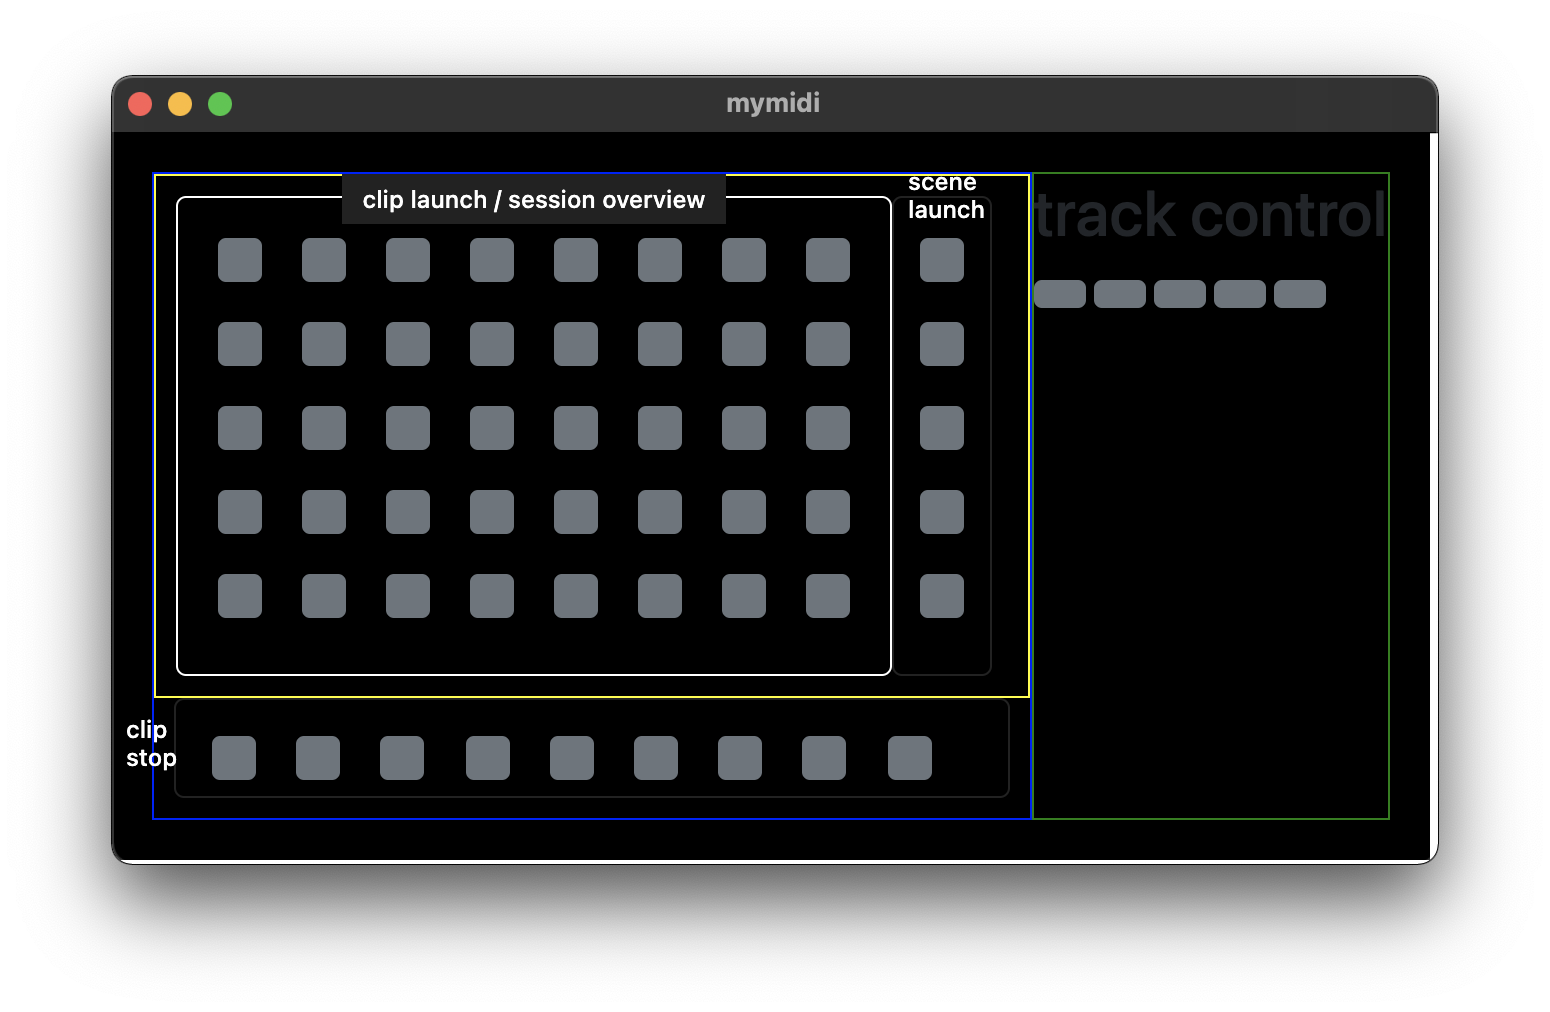
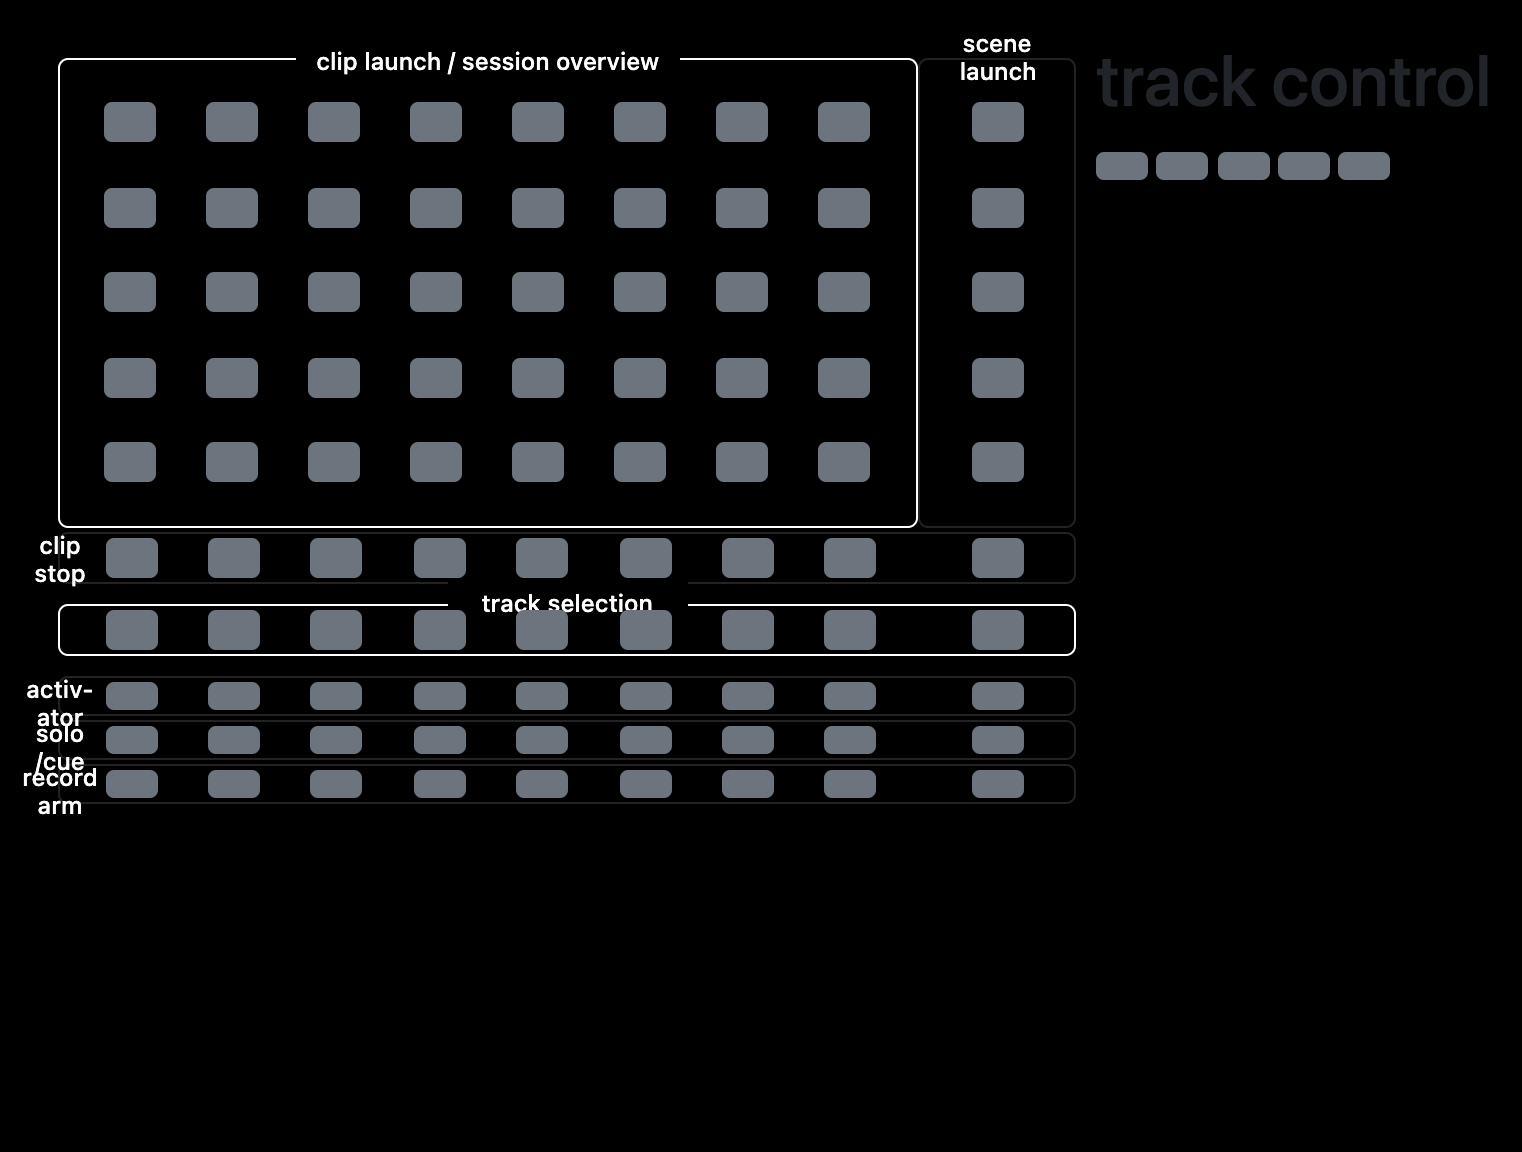
asthetic changes

diff --git a/index.html b/index.html
@@ -105,7 +105,7 @@
 						<div>clip stop</div>
 					</h1>
 					<div class="button-row-col">
-						<div class="button-row-col-shiv">&nbsp;</div>
+						<div class="button-row-col-shiv"></div>
 						<div class="button-row-col-1">
 							<button class="btn btn-secondary"></button>
 							<button class="btn btn-secondary"></button>
@@ -116,16 +116,19 @@
 							<button class="btn btn-secondary"></button>
 							<button class="btn btn-secondary"></button>
 						</div>
-						<div class="button-row-col-shiv">&nbsp;</div>
+						<div class="button-row-col-shiv"></div>
 						<div class="button-row-col-2">
 							<button class="btn btn-secondary"></button>
 						</div>
 					</div>
 				</div>
-				<div>track selection</div>
-				<div class="button-row">
+
+				<div id="trackselection" class="button-row">
+					<h1>
+						<div>track selection</div>
+					</h1>
 					<div class="button-row-col">
-						<div class="button-row-col-shiv">&nbsp;</div>
+						<div class="button-row-col-shiv"></div>
 						<div class="button-row-col-1">
 							<button class="btn btn-secondary"></button>
 							<button class="btn btn-secondary"></button>
@@ -136,20 +139,19 @@
 							<button class="btn btn-secondary"></button>
 							<button class="btn btn-secondary"></button>
 						</div>
-						<div class="button-row-col-shiv">&nbsp;</div>
+						<div class="button-row-col-shiv"></div>
 						<div class="button-row-col-2">
 							<button class="btn btn-secondary"></button>
 						</div>
 					</div>
 				</div>
-				<div>&nbsp;</div>
 
 				<div class="button-row">
 					<h1>
 						<div>activ-ator</div>
 					</h1>
-					<div class="button-row-col">
-						<div class="button-row-col-shiv">&nbsp;</div>
+					<div class="button-row-col button-row-col-sm">
+						<div class="button-row-col-shiv"></div>
 						<div class="button-row-col-1">
 							<button class="btn btn-secondary"></button>
 							<button class="btn btn-secondary"></button>
@@ -160,7 +162,7 @@
 							<button class="btn btn-secondary"></button>
 							<button class="btn btn-secondary"></button>
 						</div>
-						<div class="button-row-col-shiv">&nbsp;</div>
+						<div class="button-row-col-shiv"></div>
 						<div class="button-row-col-2">
 							<button class="btn btn-secondary"></button>
 						</div>
@@ -171,8 +173,8 @@
 					<h1>
 						<div>solo /cue</div>
 					</h1>
-					<div class="button-row-col">
-						<div class="button-row-col-shiv">&nbsp;</div>
+					<div class="button-row-col button-row-col-sm">
+						<div class="button-row-col-shiv"></div>
 						<div class="button-row-col-1">
 							<button class="btn btn-secondary"></button>
 							<button class="btn btn-secondary"></button>
@@ -183,7 +185,30 @@
 							<button class="btn btn-secondary"></button>
 							<button class="btn btn-secondary"></button>
 						</div>
-						<div class="button-row-col-shiv">&nbsp;</div>
+						<div class="button-row-col-shiv"></div>
+						<div class="button-row-col-2">
+							<button class="btn btn-secondary"></button>
+						</div>
+					</div>
+				</div>
+
+				<div class="button-row">
+					<h1>
+						<div>record arm</div>
+					</h1>
+					<div class="button-row-col button-row-col-sm">
+						<div class="button-row-col-shiv"></div>
+						<div class="button-row-col-1">
+							<button class="btn btn-secondary"></button>
+							<button class="btn btn-secondary"></button>
+							<button class="btn btn-secondary"></button>
+							<button class="btn btn-secondary"></button>
+							<button class="btn btn-secondary"></button>
+							<button class="btn btn-secondary"></button>
+							<button class="btn btn-secondary"></button>
+							<button class="btn btn-secondary"></button>
+						</div>
+						<div class="button-row-col-shiv"></div>
 						<div class="button-row-col-2">
 							<button class="btn btn-secondary"></button>
 						</div>

diff --git a/index.css b/index.css
@@ -55,10 +55,9 @@ body {
 }
 
 .cliplaunch {
-    /*border: solid 1px white;*/
+    border: 1px solid white;
     margin: 10px 0px 10px 10px;
     padding: 10px;
-    border: 1px solid #222;
     border-radius: 5px;
     width: 85%;
     height: calc(100% - 10px);
@@ -74,7 +73,7 @@ body {
 .cliplaunch h1 span {
 	display: inline;
 	border: 0px;
-	background: #222;
+	background: black;
 	color: white;
 	padding: 5px 10px;
 	position: relative;
@@ -155,10 +154,14 @@ div.scenelaunch-col {/*
 }
 
 .button-row {
-	margin: 0px 10px;
-	padding: 10px 0px;
+	margin: 2px 10px;
+	padding: 2px 0px;
 	border: 1px solid #222;
 	border-radius: 5px;
+}
+
+#trackselection.button-row {
+	border: 1px solid white;
 }
 
 .button-row h1 {
@@ -174,7 +177,8 @@ div.scenelaunch-col {/*
 	position: relative;
 	left: -25px;
 	top: -5px;
-	width: 20px;
+	width: 50px;
+	text-align: center;
 }
 
 .button-row-col
@@ -191,6 +195,12 @@ div.scenelaunch-col {/*
 
 .button-row-col button {
 	height: 20px;
+	width: 20px;
+	z-index: 100;
+}
+
+.button-row-col-sm button {
+	height: 7px;
 	width: 20px;
 }
 
@@ -209,49 +219,23 @@ div.scenelaunch-col {/*
 
 
 #trackselection {
-	margin: 0px 10px 10px 10px;
-	padding: 10px;
-	border: 1px solid #222;
-	border-radius: 5px;
-	height:50px;
-	display: flex;
+	margin: 10px 10px;
 }
 
 #trackselection h1 {
-	font-size: 12px;
-	margin: 0px;
-	height: 0px;
 }
 
 #trackselection h1 div {
+	background-color: black;
 	border: 0px;
 	color: white;
 	padding: 5px 10px;
 	position: relative;
-	left: -45px;
-	top: -7px;
-	width: 20px;
+	left: calc(50% - 60px);
+	text-align: center;
+	top: -15px;
+	width: 120px;
 }
-
-#trackselection button {
-	margin: 8px;
-	padding: 10px;
-	position: relative;
-	left: -20px;
-	height: 20px;
-	width: 20px;
-}
-
-#trackselection button:last-child {
-	margin: 8px 3px 8px 8px;
-	padding: 10px 0px 10px 10px;
-	position: relative;
-	left: -5px;
-	height: 20px;
-	width: 20px;
-}
-
-
 
 #activator {
 	margin: 0px 10px 10px 10px;
